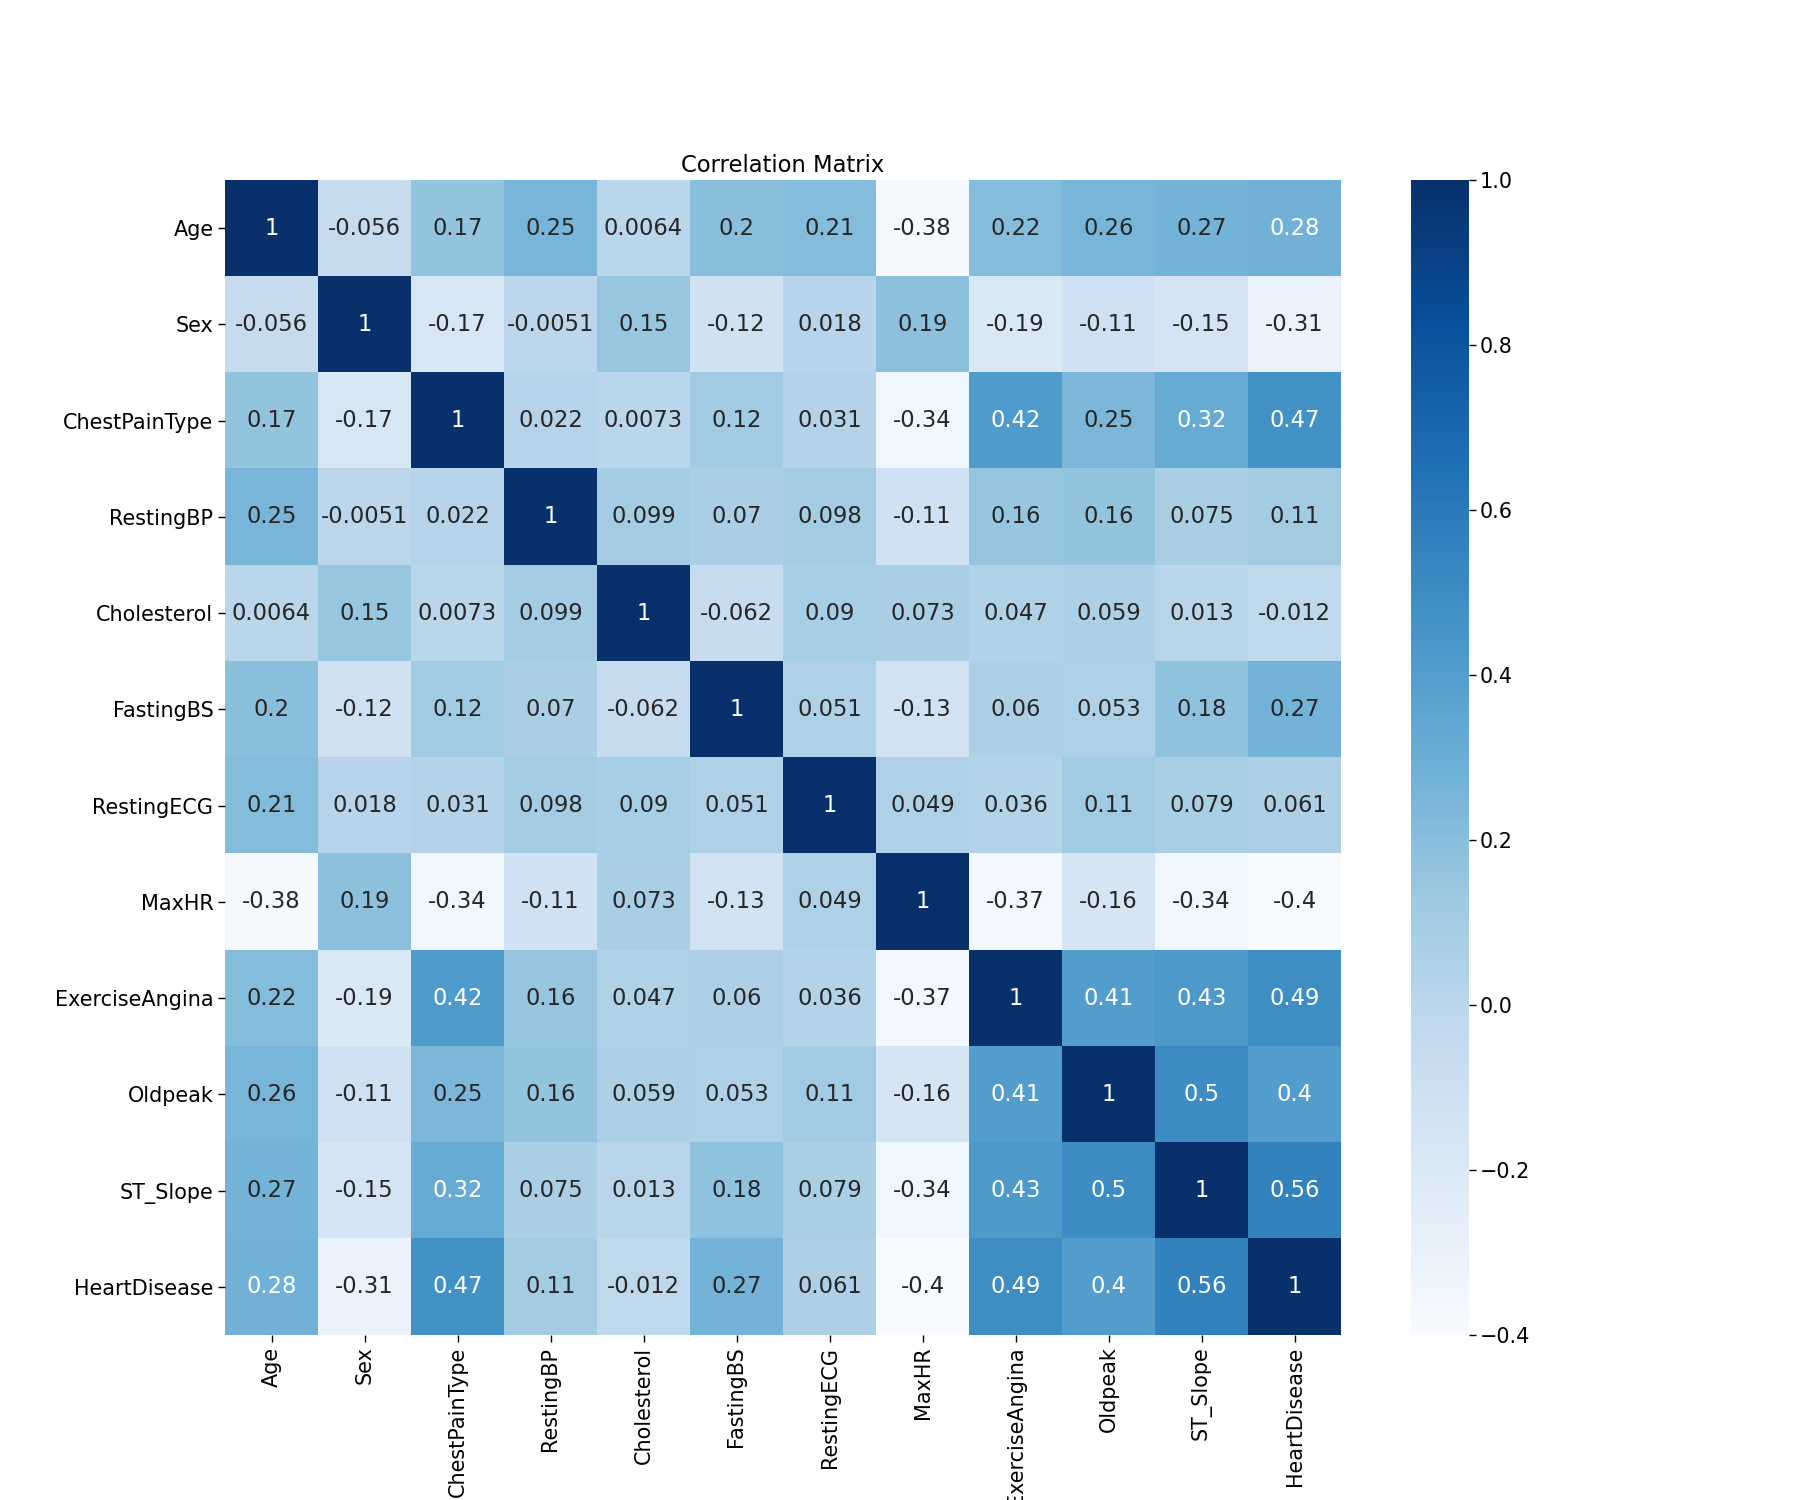
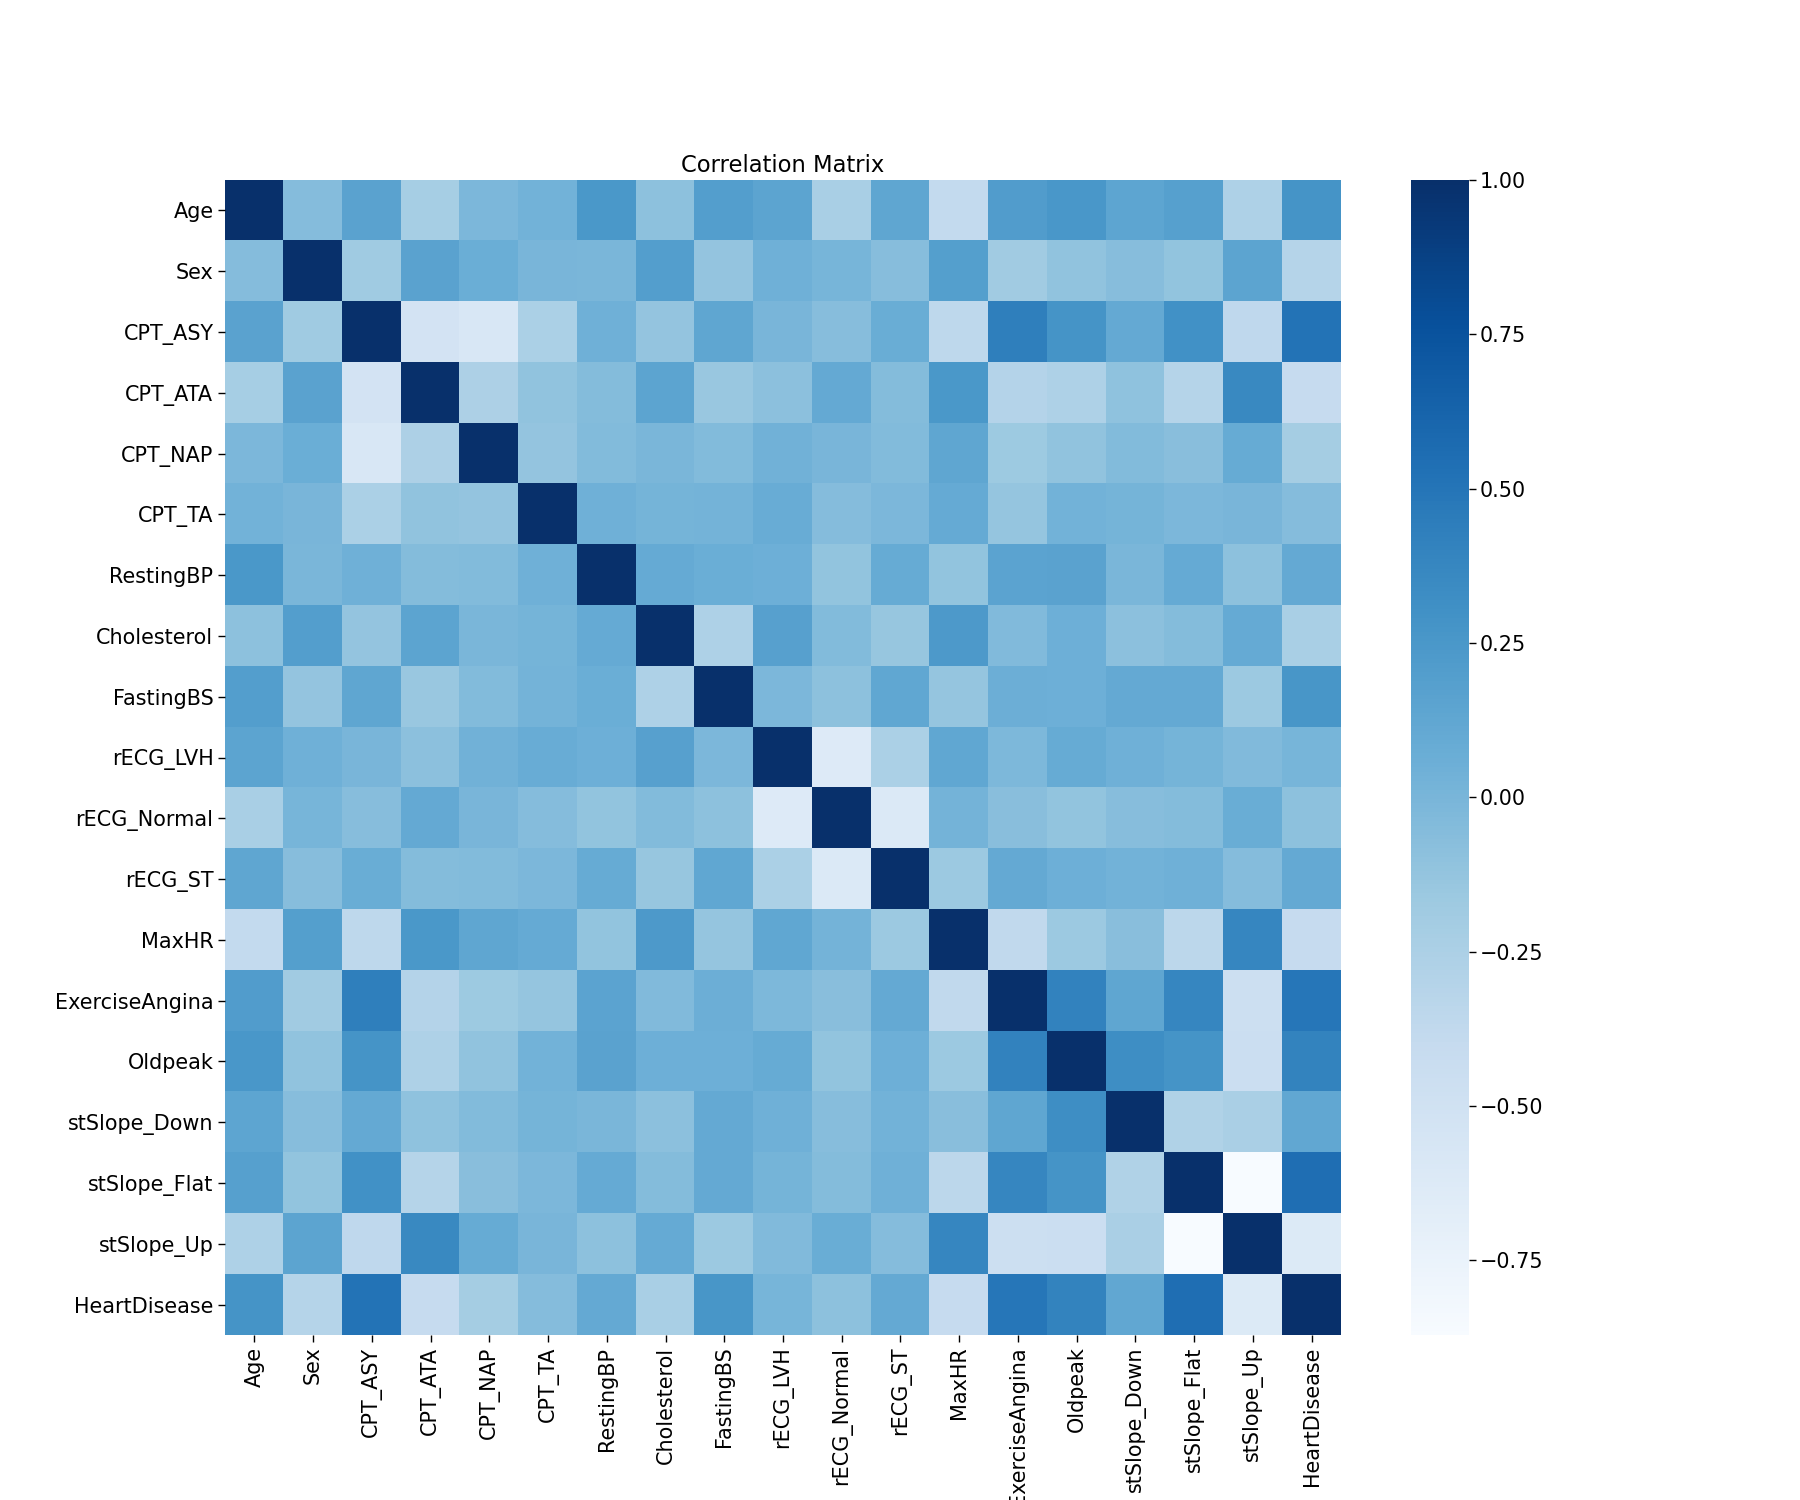
fix correlation heat map

diff --git a/helper.py b/helper.py
@@ -4,6 +4,7 @@ import matplotlib.pyplot as plt
 import numpy as np
 import pandas as pd
 import random
+import seaborn as sns
 
 
 def load_dataset(file, header=None):
@@ -179,3 +180,18 @@ def generate_clf_bagging_adaboost_plots(clf, x, y, cv, alg_name, filepath):
 
     figure.savefig(filepath)
     plt.close()
+
+def correlation_heat_map(x, y):
+   data = np.column_stack((x, y))
+   #data = data[:,1:]    #remove intercept column
+   columns = "Age  Sex  CPT_ASY  CPT_ATA  CPT_NAP  CPT_TA  RestingBP  Cholesterol  FastingBS  rECG_LVH  rECG_Normal  rECG_ST  MaxHR  ExerciseAngina  Oldpeak  stSlope_Down  stSlope_Flat  stSlope_Up HeartDisease"
+   columns = columns.split()
+   #print(columns)
+   dataframe = pd.DataFrame(data, columns=columns)
+
+   plt.figure(figsize=(18, 15))
+   sns.set_context(context="paper", font_scale=1.7)
+   plt.title("Correlation Matrix")
+   sns.heatmap(dataframe.corr(), annot=False, cmap='Blues')
+   plt.savefig("correlation_heat_map.png")
+   plt.close()

diff --git a/optimization.py b/optimization.py
@@ -140,6 +140,7 @@ def saveParams(params, names):
 
 def main(save_params=True):
     x, y = load_dataset("heart_encoded.csv")
+    #correlation_heat_map(x, y)
     x_train, x_test, y_train, y_test = split_data(x, y, split_size=0.3)
 
     t = time.time()
